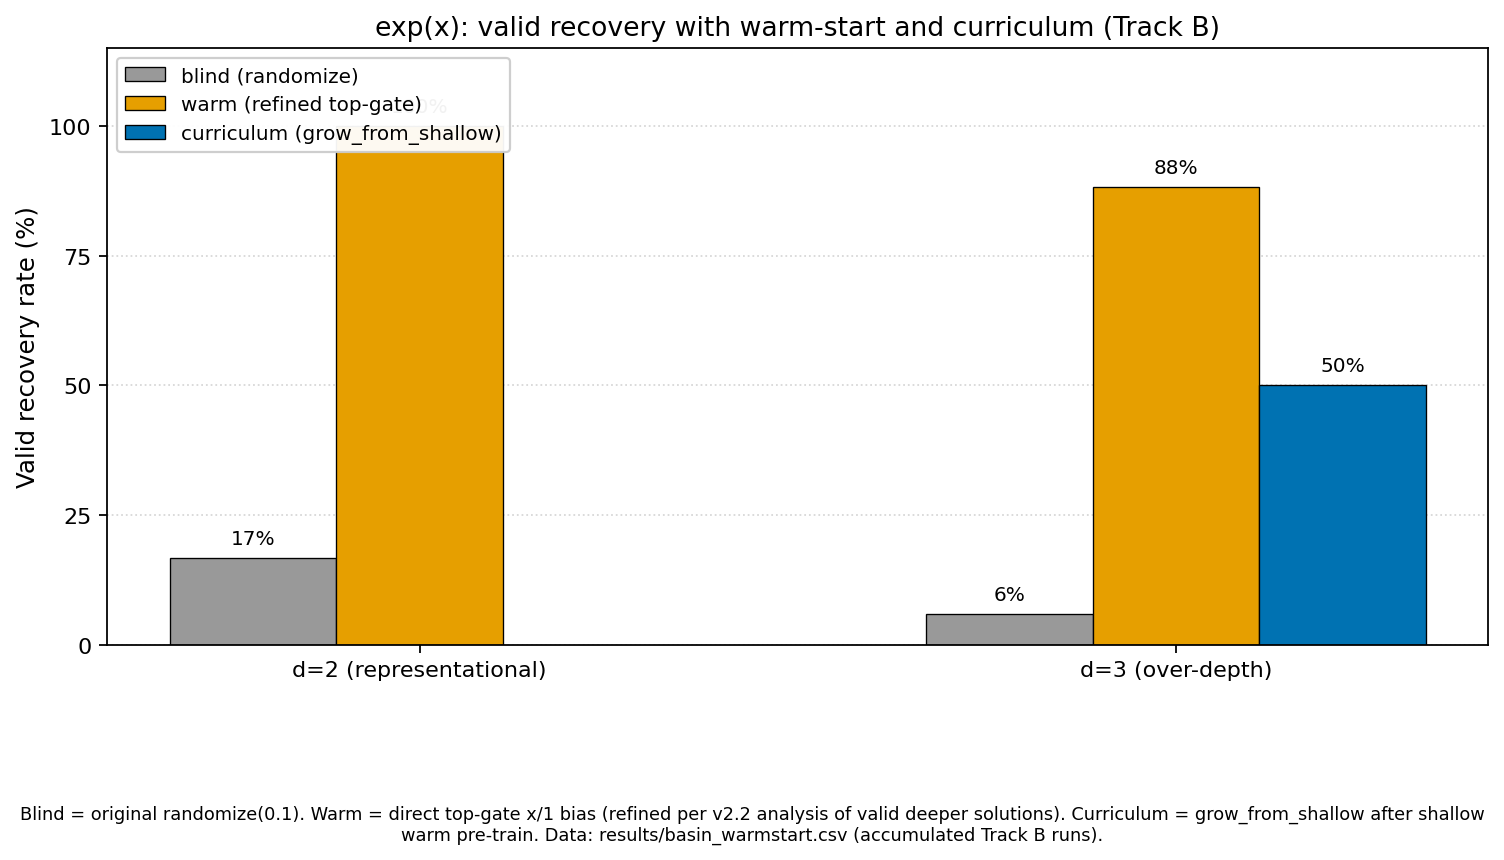
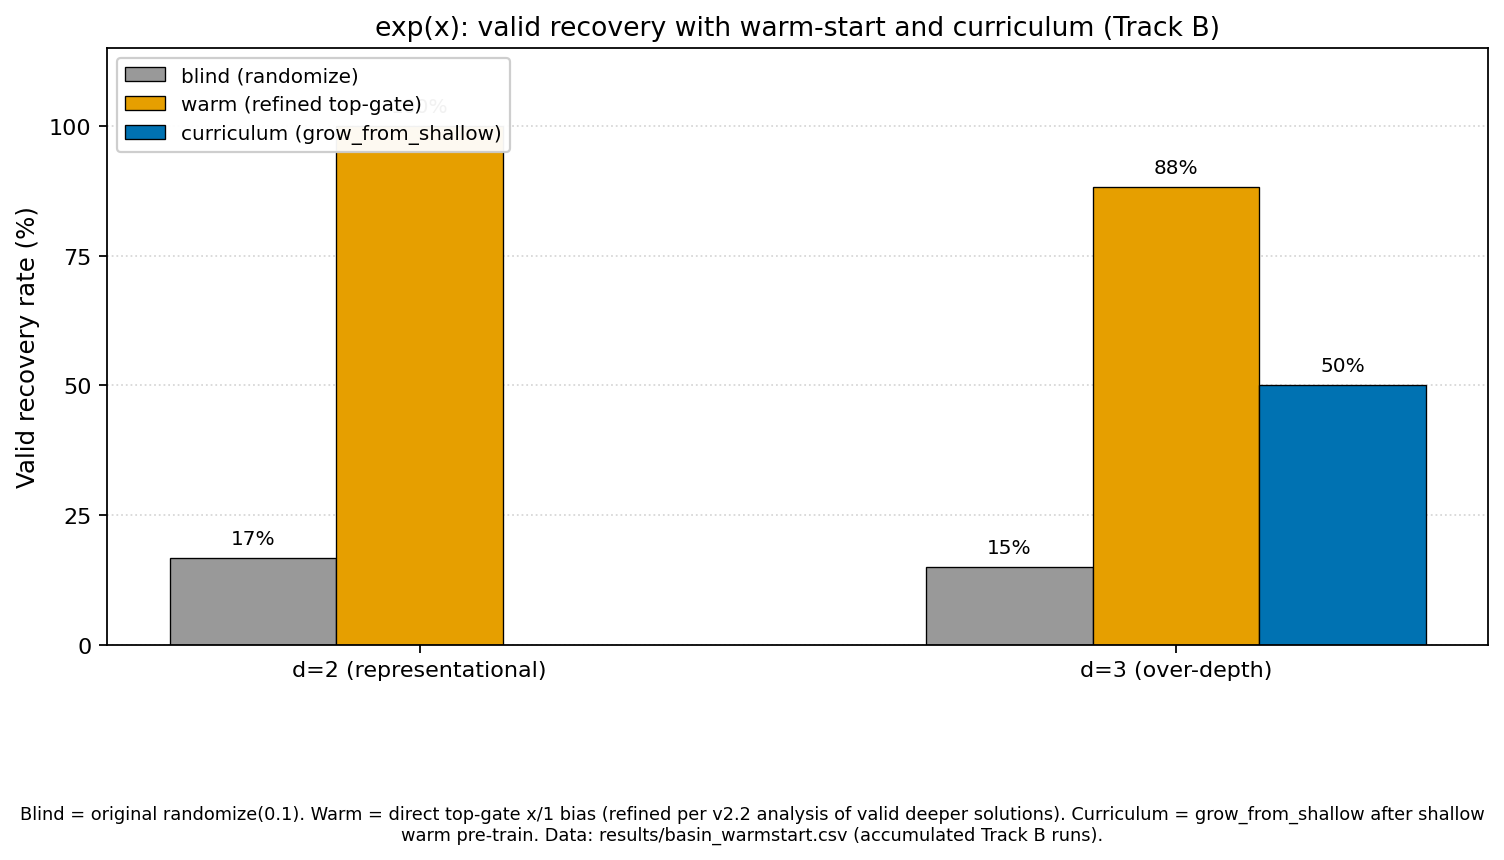
docs(track-b): record second stub bg completion (ln:5 1.7s no-op); real tasks at 20/120 (exp3 blind 8/20 40% in new seeds) + 5/30; CSV 260 rows; refresh figure

Changed region(s): [[0.5938, 0.6349, 0.75, 0.7256]]

diff --git a/results/track_b_initial.md b/results/track_b_initial.md
@@ -136,8 +136,13 @@ See session background task logs for output (or re-run the commands when ready).
 - 12-seed reanneal batch integrated (exp d=3 curriculum 12/12 100% clean `eml(x,1)` in batch / 50% cumul 12/24; warm 88% cumul 45/51).
 - 20-seed control run launched (bg task 019eb042-9cf8-7402-add6-6af0918c979c): `python basin_warmstart.py --seeds 20 --epochs 2000 --noise 0.4 --cells exp:3,ln:5 --reanneal-epochs 200`
 - ln:5 longer-reanneal tuning launched (bg task 019eb042-9f97-7221-94f1-1cbdbaff7b77): `... --seeds 10 --epochs 1500 --cells ln:5 --reanneal-epochs 400`
-- System notification received for a different 20-seed bg task (019eb03c-dc89-7601-a4a1-7a5bf4a58fea, the one ending with `&`): completed in 1.77s, exit 0, **no output captured**, 0 effect on CSV. This was a stub/ineffective launch (shell backgrounding artifact); it added no rows or progress.
-- Real 20-seed bg (the explicitly launched one) progressing: 15/120 runs after ~3.3 min (progress printed every 5 runs). CSV at 254 rows (minor growth in exp:3 blind + ln:5 blind so far; full +120 expected only on completion). See live task output via get_command_or_subagent_output.
+- System notifications received for stub bg tasks (launched with trailing `&`):
+  - 019eb03c-dc89-7601-a4a1-7a5bf4a58fea (20-seed cmd): 1.77s, exit 0, no output, 0 effect.
+  - 019eb03c-df30-7bd3-867e-38356bdf6aa5 (ln:5 400-epoch cmd): 1.70s, exit 0, no output, 0 effect.
+  These are shell backgrounding artifacts (PSJob wrappers); logs contain only job table entries, no training execution.
+- Real 20-seed bg (task 019eb042-9cf8-7402-add6-6af0918c979c, explicitly launched): progressing at 20/120 after ~4.2 min. Just completed exp d=3 blind cell for the new 20 seeds: valid=8/20 (40%), forms mixed (includes `eml(x,1)` and collapses). CSV at 260 rows (slow trickle; curriculum/warm cells for new seeds not yet reported in volume).
+- Real ln:5 tuning bg (task 019eb042-9f97-7221-94f1-1cbdbaff7b77): 5/30 after ~4.2 min.
+- See live task output via get_command_or_subagent_output for ongoing progress. Full N=20 integration awaits completion of the real runs.
 - Analyzer `analyze_basin_rates.py` (stdlib) + `make_basin_figures.py` (re-run) confirm current rates (254 rows; exp d=3 curriculum still at prior 24 seeds / 50%, ln5 still 0%).
 - Figure re-generated + dropped to `notes/figure3_valid_rates_exp.png` (item 3).
 - Snapshot refreshed: new dated CSV copy in results/v2.3_basin_snapshot/ at launch time + README updated (item 4).
